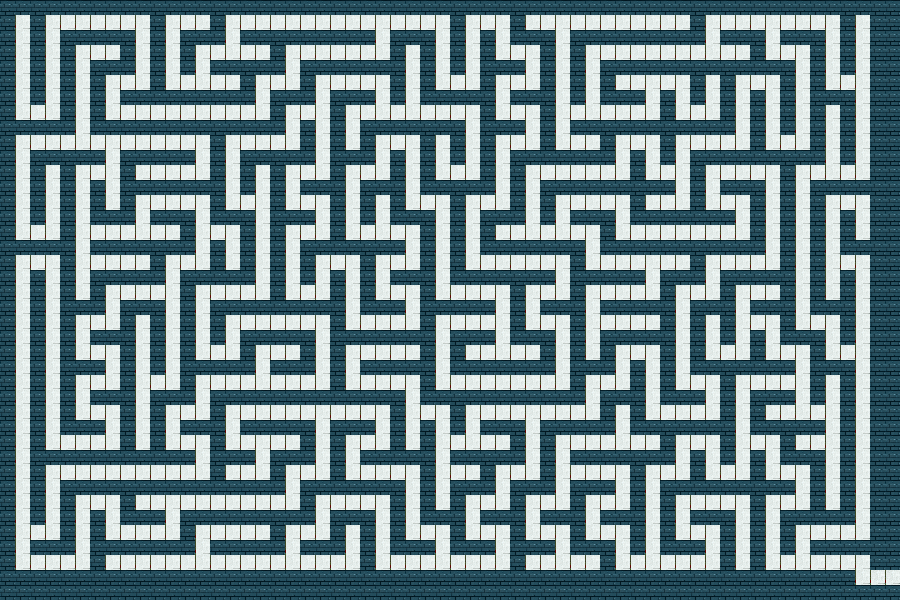
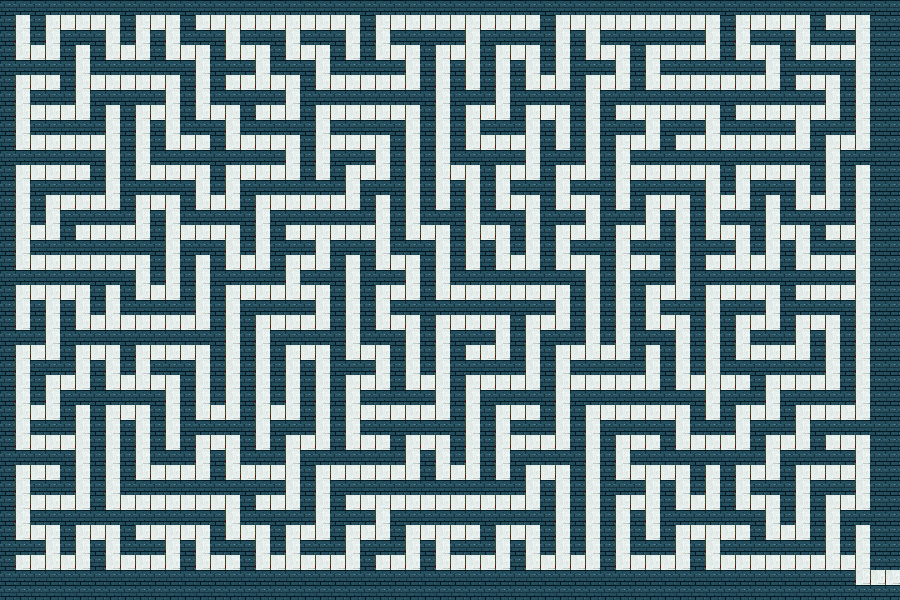
remove route&move player when map change

diff --git a/maze_vs.py b/maze_vs.py
@@ -3,17 +3,10 @@ import random as rd
 import time as t
 import numpy as np
 
-'''
-pygame으로 만든 창은 좌표가 왼쪽 위에서부터 시작함 (0, 0)
-오른쪽과 아래쪽으로 갈수록 x, y 좌표가 각각 증가함
-'''
-
-# 사용자 정의 예외 클래스
 class OutsideBoundaryError(Exception):
     """외벽에서 이동하려고 할 경우 발생하는 사용자 정의 예외"""
     def __init__(self, message):
         super().__init__(message)
-
 
 class Tile:
     coords = [(x*15, y*15) for y in range(0, 40) for x in range(0, 60)]
@@ -69,13 +62,22 @@ class Tile:
             combined_surf.blit(image, cls.coords[i])
         pygame.image.save(combined_surf, f'MAZE_MAP{map_num + 1}.png')
 
+    @classmethod
+    def update_map_objects(cls, map_num):
+        """맵 변경 시 obj 리스트를 새로 갱신"""
+        now_map = cls.map_data[map_num]
+        cls.obj = []  # 기존 obj 초기화
+        for tile_type in now_map:
+            if tile_type == 0:
+                cls.obj.append(cls('wall'))
+            else:
+                cls.obj.append(cls('road'))
 
 class Player:
     def __init__(self, tile_num, player_image, screen):
         self.tile_num = tile_num
         self.image = player_image
         self.screen = screen
-        self.show_player(tile_num)
 
     def cal_next_tile_num(self, user_key):
         if user_key == 'UP':
@@ -105,14 +107,23 @@ class Player:
         self.check_boundary(next_tile_num, user_key)
         if Tile.obj[next_tile_num].tile_type == 'road':
             self.tile_num = next_tile_num
-            self.show_player(self.tile_num)
+            return True
         else:
             print("벽이 있어 이동할 수 없습니다.")
+            return False
 
-    def show_player(self, tile_num):
-        x, y = Tile.coords[tile_num]
+    def show_player(self):
+        x, y = Tile.coords[self.tile_num]
         self.screen.blit(self.image, (x, y))
 
+    def random_move(self):
+        directions = ['UP', 'DOWN', 'LEFT', 'RIGHT']
+        rd.shuffle(directions)
+        for direction in directions:
+            next_tile_num = self.cal_next_tile_num(direction)
+            if Tile.obj[next_tile_num].tile_type == 'road':
+                self.tile_num = next_tile_num
+                break
 
 # Pygame 초기화
 pygame.init()
@@ -140,15 +151,18 @@ pygame.display.set_caption("Maze_Game")
 
 pygame.time.set_timer(pygame.USEREVENT, 15000)
 clock = pygame.time.Clock()
-screen.blit(map_images[0], (0, 0))
-
-map_index = 1
+map_index = 0
+Tile.update_map_objects(map_index)  # 초기 obj 설정
 player = Player(61, player_image, screen)
 
 running = True
 
 # 게임 루프
 while running:
+    screen.blit(map_images[map_index], (0, 0))  # 맵을 매 프레임마다 다시 그리기
+    player.show_player()  # 플레이어 그리기
+    pygame.display.flip()  # 화면 업데이트
+
     for event in pygame.event.get():
         if event.type == pygame.QUIT:
             running = False
@@ -171,13 +185,11 @@ while running:
                 print(f"오류 발생: {e}")
 
         if event.type == pygame.USEREVENT:
-            if map_index == len(map_images):
-                map_index = 0
-            screen.blit(map_images[map_index], (0, 0))
-            map_index += 1
-            player.show_player(61)
+            map_index = (map_index + 1) % len(map_images)
+            Tile.update_map_objects(map_index)  # 새 맵 데이터 반영
+            if Tile.obj[player.tile_num].tile_type == 'wall':
+                player.random_move()  # 플레이어가 벽에 있으면 랜덤 이동
 
-    pygame.display.flip()
     clock.tick(60)
 
 pygame.quit()
